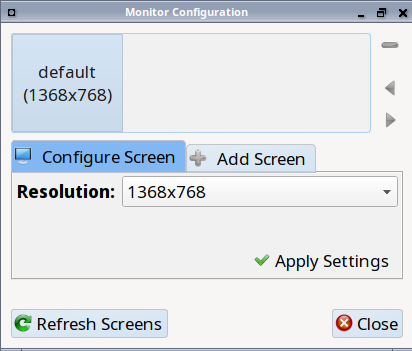
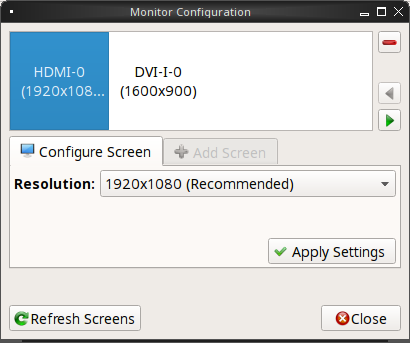
Lumina 0.9.0 updates
- updated changelog.rst with 0.9.0 notes
-edited conf.py to reflect version 0.9.0
-edits to lumina.rst
 -rewrote lumina-screenshots section
 -added lumina text editor section
 -reworked lumina xconfig section
 -updated screenshots in above sections

diff --git a/conf.py b/conf.py
@@ -59,9 +59,9 @@ copyright = u'2011-2016, iXsystems'
 # built documents.
 #
 # The short X.Y version.
-version = '0.8.8'
+version = '0.9.0'
 # The full version, including alpha/beta/rc tags.
-release = '0.8.8'
+release = '0.9.0'
 
 # The language for content autogenerated by Sphinx. Refer to documentation
 # for a list of supported languages.
@@ -227,7 +227,7 @@ epub_scheme = 'URL'
 #epub_identifier = 'lumina.org'
 
 # A unique identification for the text.
-epub_uid = '0.8.8'
+epub_uid = '0.9.0'
 
 # A tuple containing the cover image and cover page html template filenames.
 #epub_cover = ()

diff --git a/lumina.rst b/lumina.rst
@@ -503,27 +503,45 @@ Lumina Screenshot
 
 .. figure:: images/lumina9a.png
    :width: 351px
-   :height: 311px
-   :scale: 99%
+   :height: 310px
+   :scale: 100%
+   :align: left
+   
+.. _lumina9b:
+
+.. figure:: images/lumina9b.png
+   :width: 351px
+   :height: 310px
+   :scale: 100%
    :align: left
    
 This utility can be used to take screenshots of the desktop or selected window and save them as PNG image files. To launch this utility, click the start menu and select
 :menuselection:`Browse Applications --> Utility --> Lumina Screenshot`, right-click the desktop and select :menuselection:`Applications --> Utility --> Lumina Screenshot`, type
 :command:`lumina-screenshot` from a terminal window, or press the :kbd:`Print Screen` button.
 
-The following settings can be used to fine-tune the screenshot:
-
-* **Delay:** in seconds. This can be used to give you time to setup the screenshot.
+On the "New Screenshot" tab, the following settings can be used to fine-tune the screenshot:
 
 * **Entire Session:** will take a screenshot of the entire screen.
 
 * **Single Screen:** in a multi-monitor setup, you can select which screen number to use for the screenshot.
 
-* **Single Window:** will take a screenshot of the window which has focus. The "Include Borders" checkbox can be used to determine whether or not the screenshot of the window is
-  surrounded by a black border.
+* **Single Window:** will screenshot a selected window. Simply choose "Single Window," then the "Take Screenshot" button, and click on the desired window.
+  The "Include Borders" checkbox can be used to determine whether or not the screenshot of the window is surrounded by a black border.
+  
+* **Delay:** in seconds. This can be used to give you time to setup the screenshot.
 
-To take a screenshot, click the "Snap" button in the upper-right corner of Lumina Screenshot. If you like the look of the screenshot, as shown in the preview, click the "Save" button to
-open a window where you can specify the filename and location for saving the screenshot.
+There are three options for taking a screenshot: clicking the "Take Screenshot" button in the lower-right corner of Lumina Screenshot, pressing :kbd:`Ctrl+N`, or clicking :menuselection:`File --> Take Screenshot`. 
+
+After capturing a screenshot, the "View/Edit" tab provides additional options for manipulating the screenshot:
+
+* **Image Preview:** displays the captured screenshot. Right clicking the image will provide options for zooming in or out. Left click and dragging across the image will highlight an area which
+  can be cropped by pressing the "Crop" button in the lower-right corner.
+  
+* **"Save As":** button to open a window where you can specify the filename and location for saving the screenshot.
+
+* **Launch Editor:** button to launch a selectable image manipulation program.
+
+Additionally, clicking :menuselection:`File --> Quick Save` will automatically save the screenshot to the default "Pictures" directory and open a window to select an image manipulation program.
 
 .. index:: file manager
 .. _Insight File Manager:
@@ -720,8 +738,8 @@ Lumina Xconfig
 .. _lumina15a:
 
 .. figure:: images/lumina15a.png
-   :width: 412px
-   :height: 351px
+   :width: 410px
+   :height: 343px
    :scale: 100%
    :align: left
    
@@ -729,10 +747,26 @@ The :command:`lumina-xconfig` utility is a graphical front-end to the :command:`
 start this utility, right-click the desktop and select :menuselection:`Preferences --> Display` or type :command:`lumina-xconfig` from a terminal window. This will open a screen
 similar to the one shown in :numref:`Figure %s: Configuring Monitors <lumina15a>`.
 
-In this example, one display input is attached to the system and its current screen resolution is displayed. If the display input supports multiple resolutions, they will appear in the
+In this example, two display inputs are attached to the system and their current screen resolutions are displayed. If the display input supports multiple resolutions, they will appear in the
 "Resolution" drop-down menu so that you can select a different resolution. 
 
 If you attach another display input, the "Add Screen" tab is activated so that you can configure the new input's resolution and whether or not it should be the default input.
+
+.. index:: textedit
+.. _Lumina Text Editor:
+
+Lumina Text Editor
+==================
+ 
+This utility is a simple plaintext editor which features four primary elements: optional syntax highlighting, find/replace functionality, line numbering, and bracket highlighting.
+Additionally, colors can be customized by selecting :menuselection:`View --> Customize Colors`.
+
+.. _lumina23:
+
+.. figure:: images/lumina23.png
+   :width: 412px
+   :height: 351px
+   :scale: 100%
 
 .. _Contributing to Lumina:
 

diff --git a/changelog.rst b/changelog.rst
@@ -6,6 +6,56 @@ Changelog
 This section describes the major features and changes to each version of Lumina, with the most recent version of Lumina listed first.
 
 .. index:: changelog
+.. _Lumina 0.9.0:
+
+Lumina 0.9.0
+============
+
+* Changed the default wallpapers for Lumina/PC-BSD and added some more 4K Lumina wallpapers.
+
+* Updated lumina-screenshot: Added a new quicksave option and launch editor button for opening a full editor, windows to be snapshot may now be clicked on 
+  for selection rather than using the list of open windows, and screenshots may be cropped as needed within the utility before saving them to a file.
+ 
+* Added new Utility: lumina-textedit. This is a simple plaintext editor with syntax highlighting, find/replace support, line numbers, and bracket highlighting.
+
+* Updated the Lumina theme engine to no longer use stylesheets to modify non-desktop applications (including the Lumina tools/utilities). 
+  This opens the door for a full Qt5 theme plugin to be used for non-desktop utilities instead.
+
+* Updated which XDG mime-types are used for the default web browser and file manager. 
+  This should make it align a bit better with what applications expect (if they try to read/use the database directly - such as some popular web browsers do).
+
+* Updated Linux harddrive device detection ("nvme" devices).
+
+* Added Gentoo Linux support and an "ebuild" file.
+
+* Cleanup of some minor source syntax issues with Qt 5.6
+
+* Fixed a number of multi-monitor issues. Screen resizes/changes will now be properly detected on the fly (on any system - including VM's), and panels will be placed properly on monitors not aligned with the y=0 axis.
+
+* Ensured the current system volume gets saved on logout so it can be reloaded on next login (in case the volume was changed by some external tool during the session).
+
+* Added new startup binary: "start-lumina-desktop". This will be used as the primary "entry point" for launching the desktop as opposed to the "Lumina-DE" binary (please adjust your .xinitrc files and wrapper scripts as needed). 
+  The xsession desktop entry that Lumina installs was already changed to run this tool, so graphical desktop managers should be unaffected by this change. 
+  This tool will eventually be used to perform the X session setup/configuration (so CLI users will not need to run xinit or startx directly anymore), but the X integration has not been implemented yet.
+
+* Updated the FreeBSD appstore shortcut to point to the new appcafe.desktop file from PC-BSD.
+
+* Cleaned many old shell scripts from the source tree (not needed for builds any more).
+
+* Streamlined the build procedures slightly.
+
+* Reorganized the source tree. Now all the Lumina tools/utilities are kept separate from the general build scripts/files within a src-qt5 directory, and additionally organized into categories (core, core-utils, desktop-utils).
+  Automated build systems should not be impacted by this change, as the main project file (lumina.pro) has been left in the same place within the repository and just had all the internal paths adjusted accordingly.
+ 
+* Updated all the installed desktop entries to use relative paths for the icons (better cross-OS support).
+
+* Fixed the detection of "sloppy" URL's given to lumina-open.
+
+* Adjusted one of the include files for the Lumina library so external applications can now link against the lib without the availability of the Lumina source tree (although still not recommended).
+
+* Stability fix for the desktop when an invalid desktop plugin is set/registered.
+
+.. index:: changelog
 .. _Lumina 0.8.8:
 
 Lumina 0.8.8
